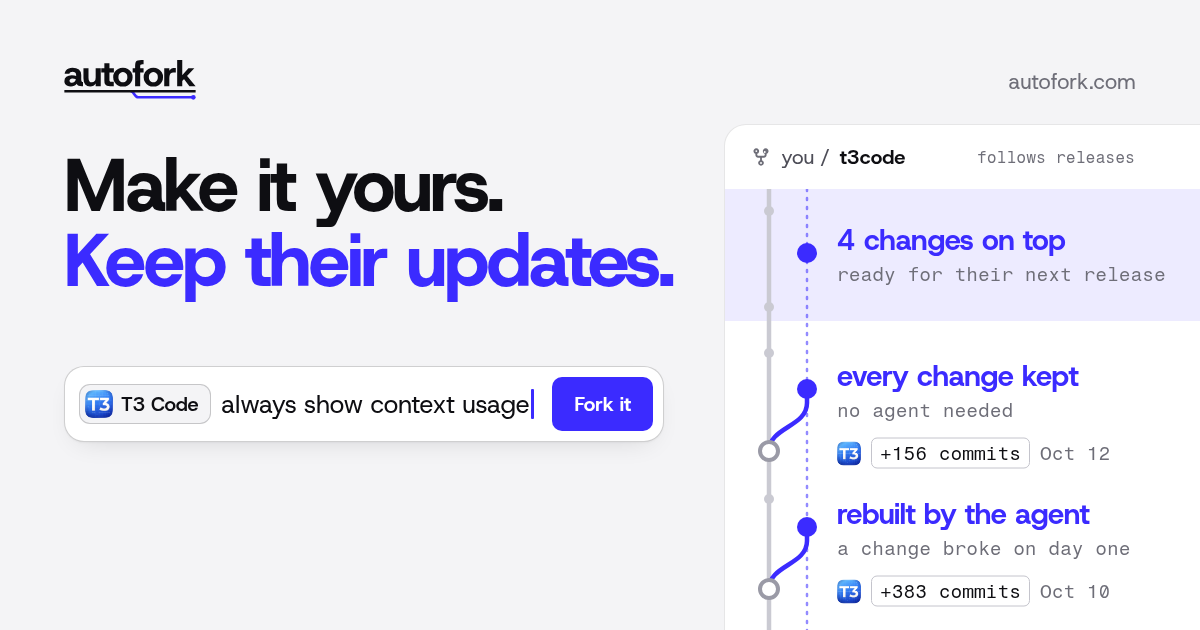
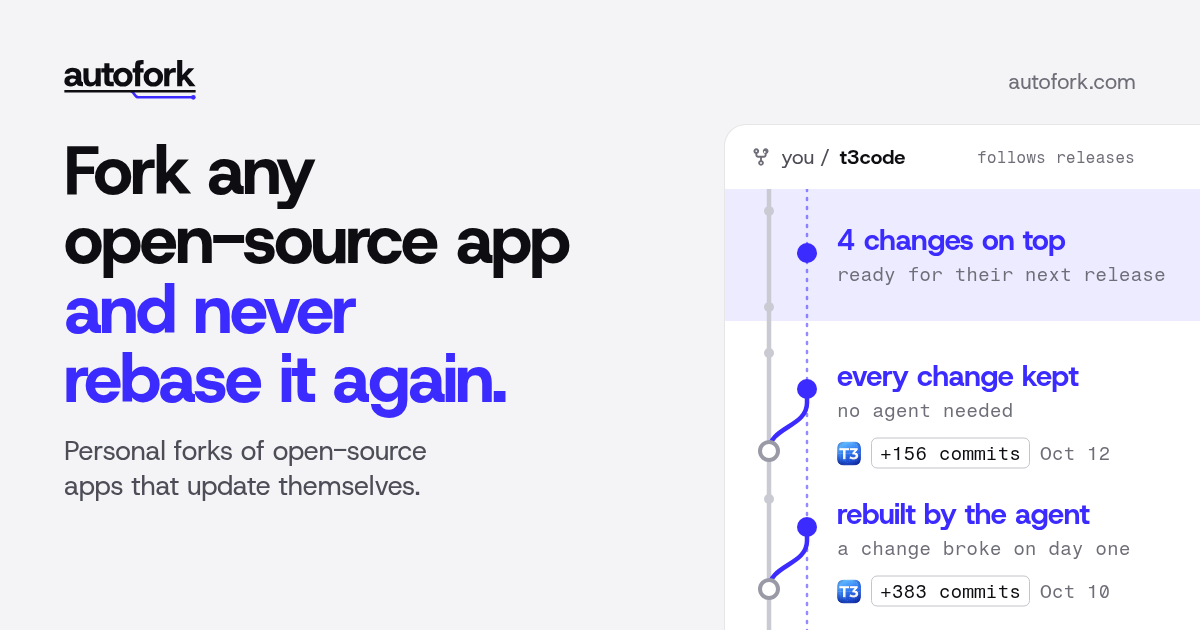
Link preview carries the new pitch: "Fork any open-source app and never rebase it again." over its sub line (og.png v9)

Changed region(s): [[0.0308, 0.2111, 0.5858, 0.6937], [0.0308, 0.6937, 0.37, 0.7841]]

diff --git a/index.html b/index.html
@@ -12,14 +12,14 @@
     <meta property="og:description" content="Personal forks of open-source apps that update themselves. Each new release, your changes go back on top, and an agent rebuilds any that break." />
     <meta property="og:type" content="website" />
     <meta property="og:url" content="https://autofork.com" />
-    <meta property="og:image" content="https://autofork.com/og.png?v=8" />
+    <meta property="og:image" content="https://autofork.com/og.png?v=9" />
     <meta property="og:image:width" content="1200" />
     <meta property="og:image:height" content="630" />
     <meta property="og:image:alt" content="autofork: Fork any open-source app and never rebase it again. Personal forks of open-source apps that update themselves." />
     <meta name="twitter:card" content="summary_large_image" />
     <meta name="twitter:title" content="autofork: fork any open-source app and never rebase it again" />
     <meta name="twitter:description" content="Personal forks of open-source apps that update themselves. Each new release, your changes go back on top, and an agent rebuilds any that break." />
-    <meta name="twitter:image" content="https://autofork.com/og.png?v=8" />
+    <meta name="twitter:image" content="https://autofork.com/og.png?v=9" />
     <link rel="icon" href="/favicon.svg" type="image/svg+xml" />
     <link rel="apple-touch-icon" href="/apple-touch-icon.png" />
     <link rel="icon" href="/icon-512.png" sizes="512x512" type="image/png" />
